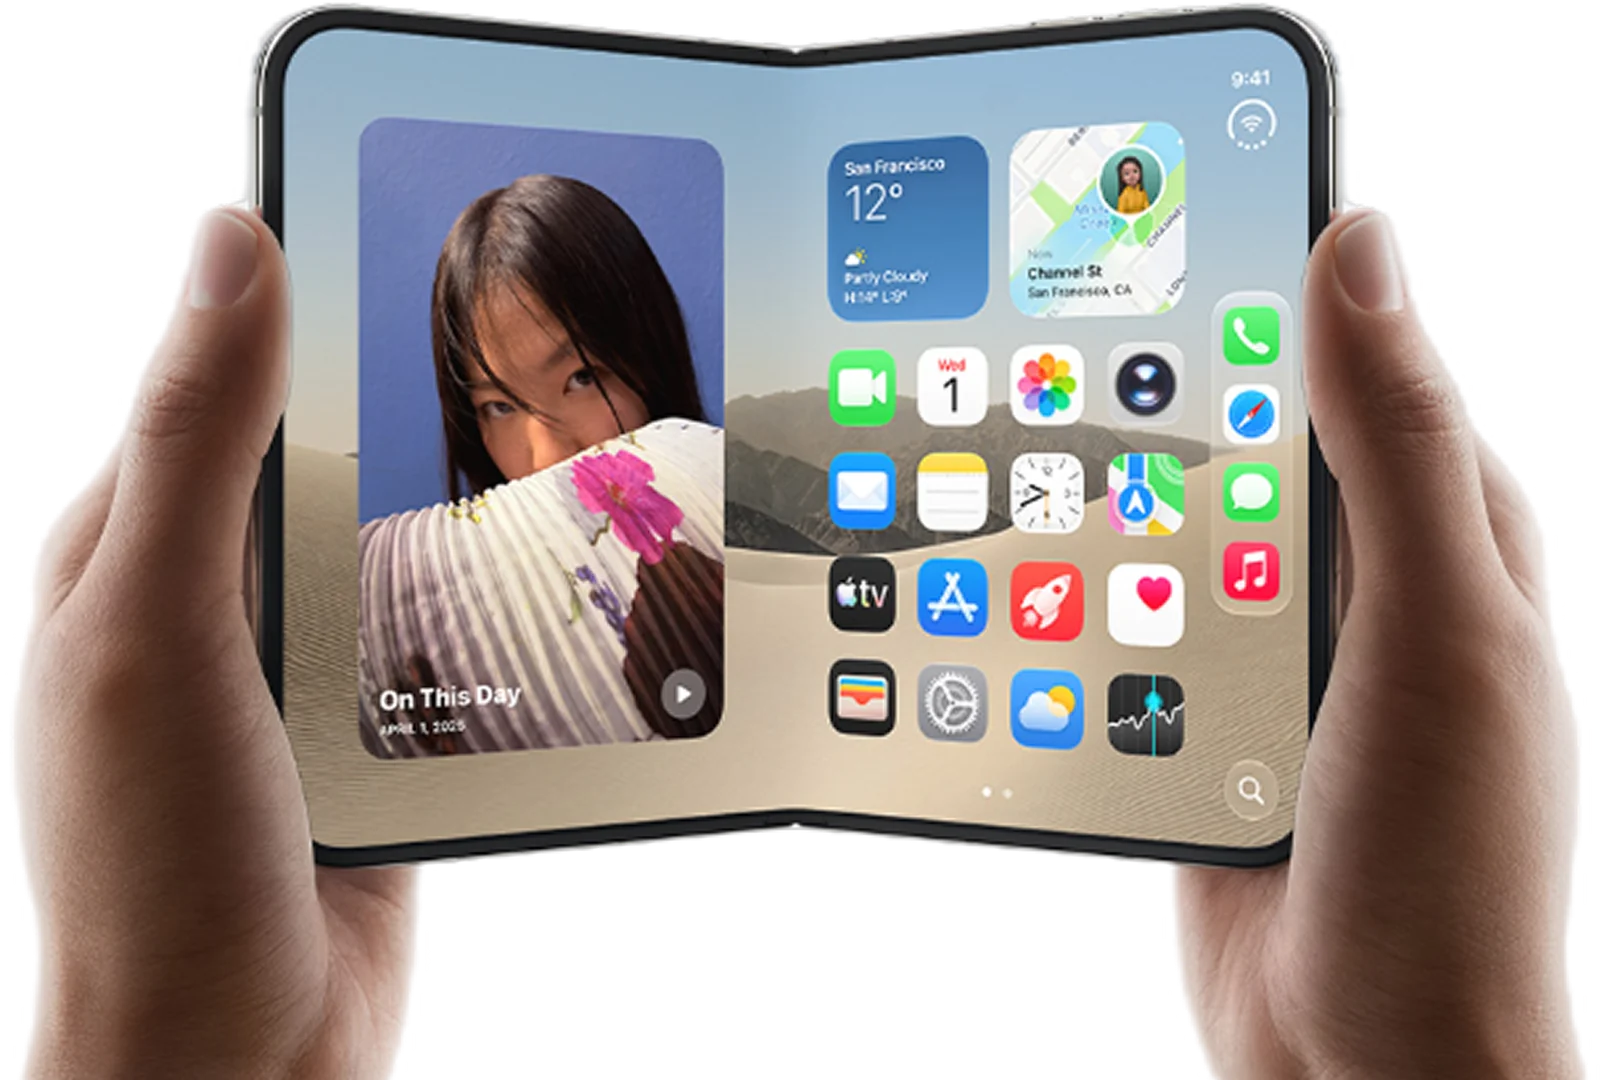
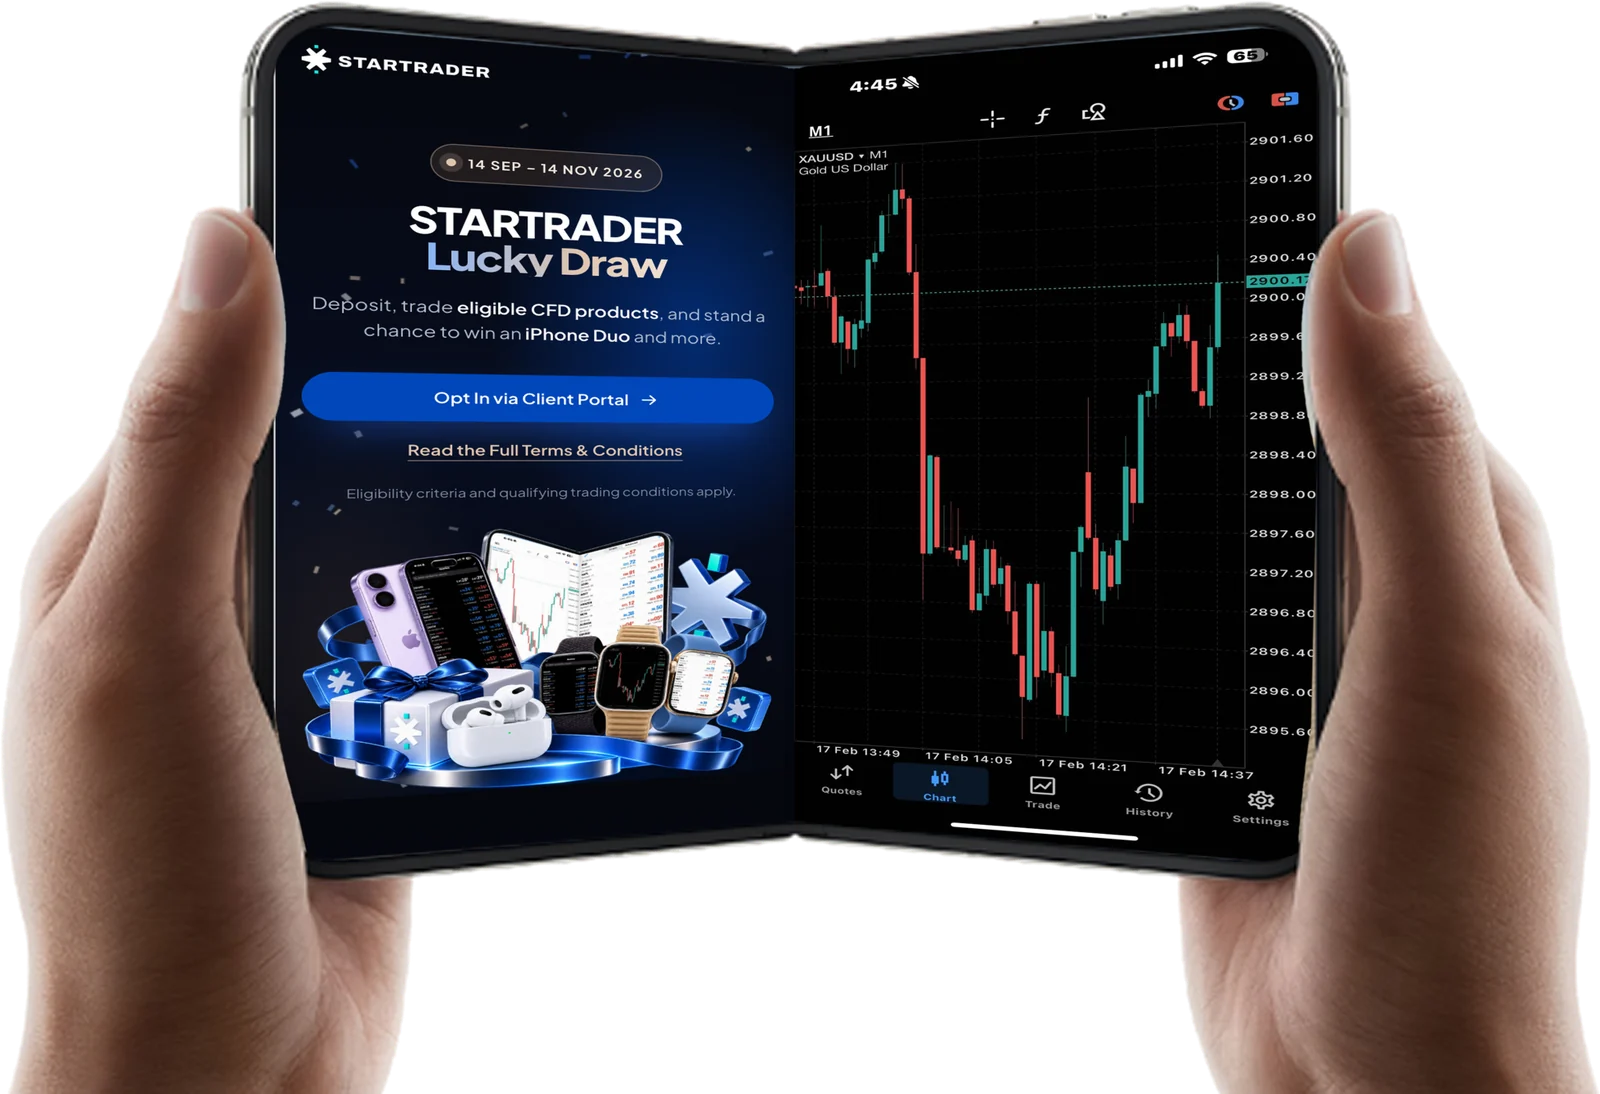
The Duo prize card takes MKT's photo of the device showing the Lucky Draw
The featured prize photo is now the supplied shot of two hands holding
the open device with the promotion on one screen and a chart on the
other; the card's layout, blur band and text are unchanged.

diff --git a/lucky-draw.html b/lucky-draw.html
@@ -343,7 +343,7 @@
     <div class="ld-prize-grid">
       <article class="ld-card ld-prize ld-prize--1" data-aos="fade-up">
         <span class="ld-rank"><svg><use href="#ld-crown"/></svg>1st Draw Winner</span>
-        <div class="ld-prize-art"><img src="assets/img/lucky-prize-1.webp" alt="iPhone Duo held open in two hands" width="1600" height="1080" loading="lazy" decoding="async"><img class="ld-prize-blur" src="assets/img/lucky-prize-1.webp" alt="" aria-hidden="true" width="1600" height="1080" loading="lazy" decoding="async"></div>
+        <div class="ld-prize-art"><img src="assets/img/lucky-prize-1.webp" alt="iPhone Duo held open in two hands" width="1600" height="1094" loading="lazy" decoding="async"><img class="ld-prize-blur" src="assets/img/lucky-prize-1.webp" alt="" aria-hidden="true" width="1600" height="1094" loading="lazy" decoding="async"></div>
         <h3>Iphone Duo 256GB</h3>
         <p>Cash Equivalent (USD): <b>1,599 USD</b></p>
       </article>
